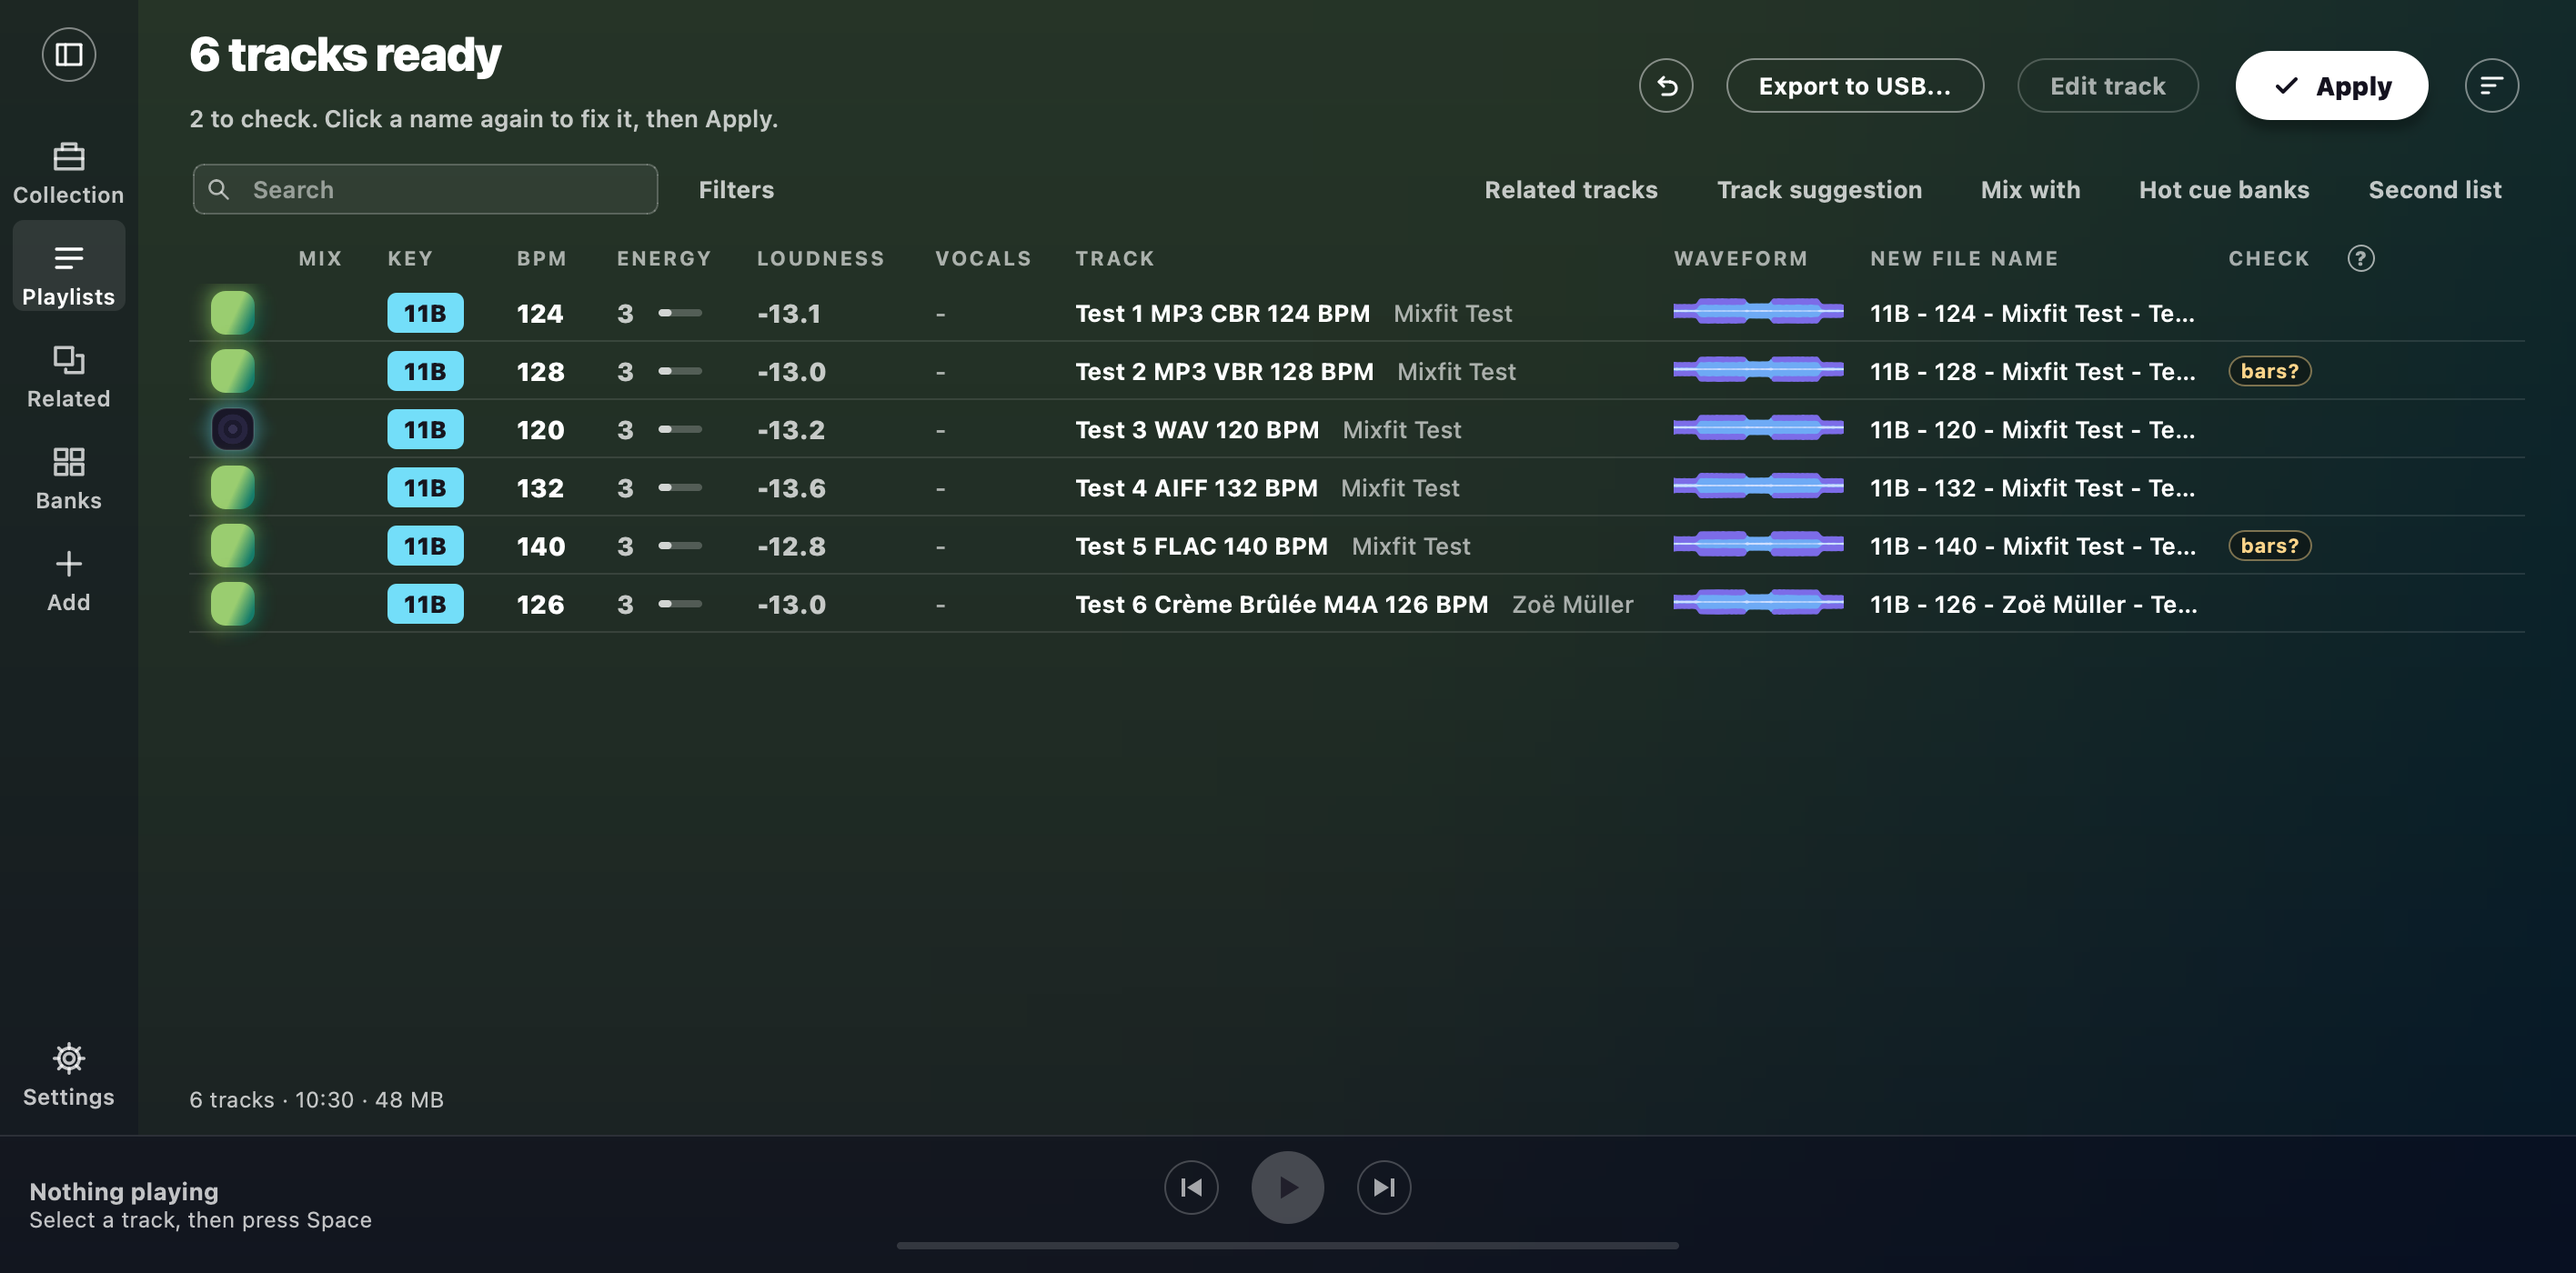
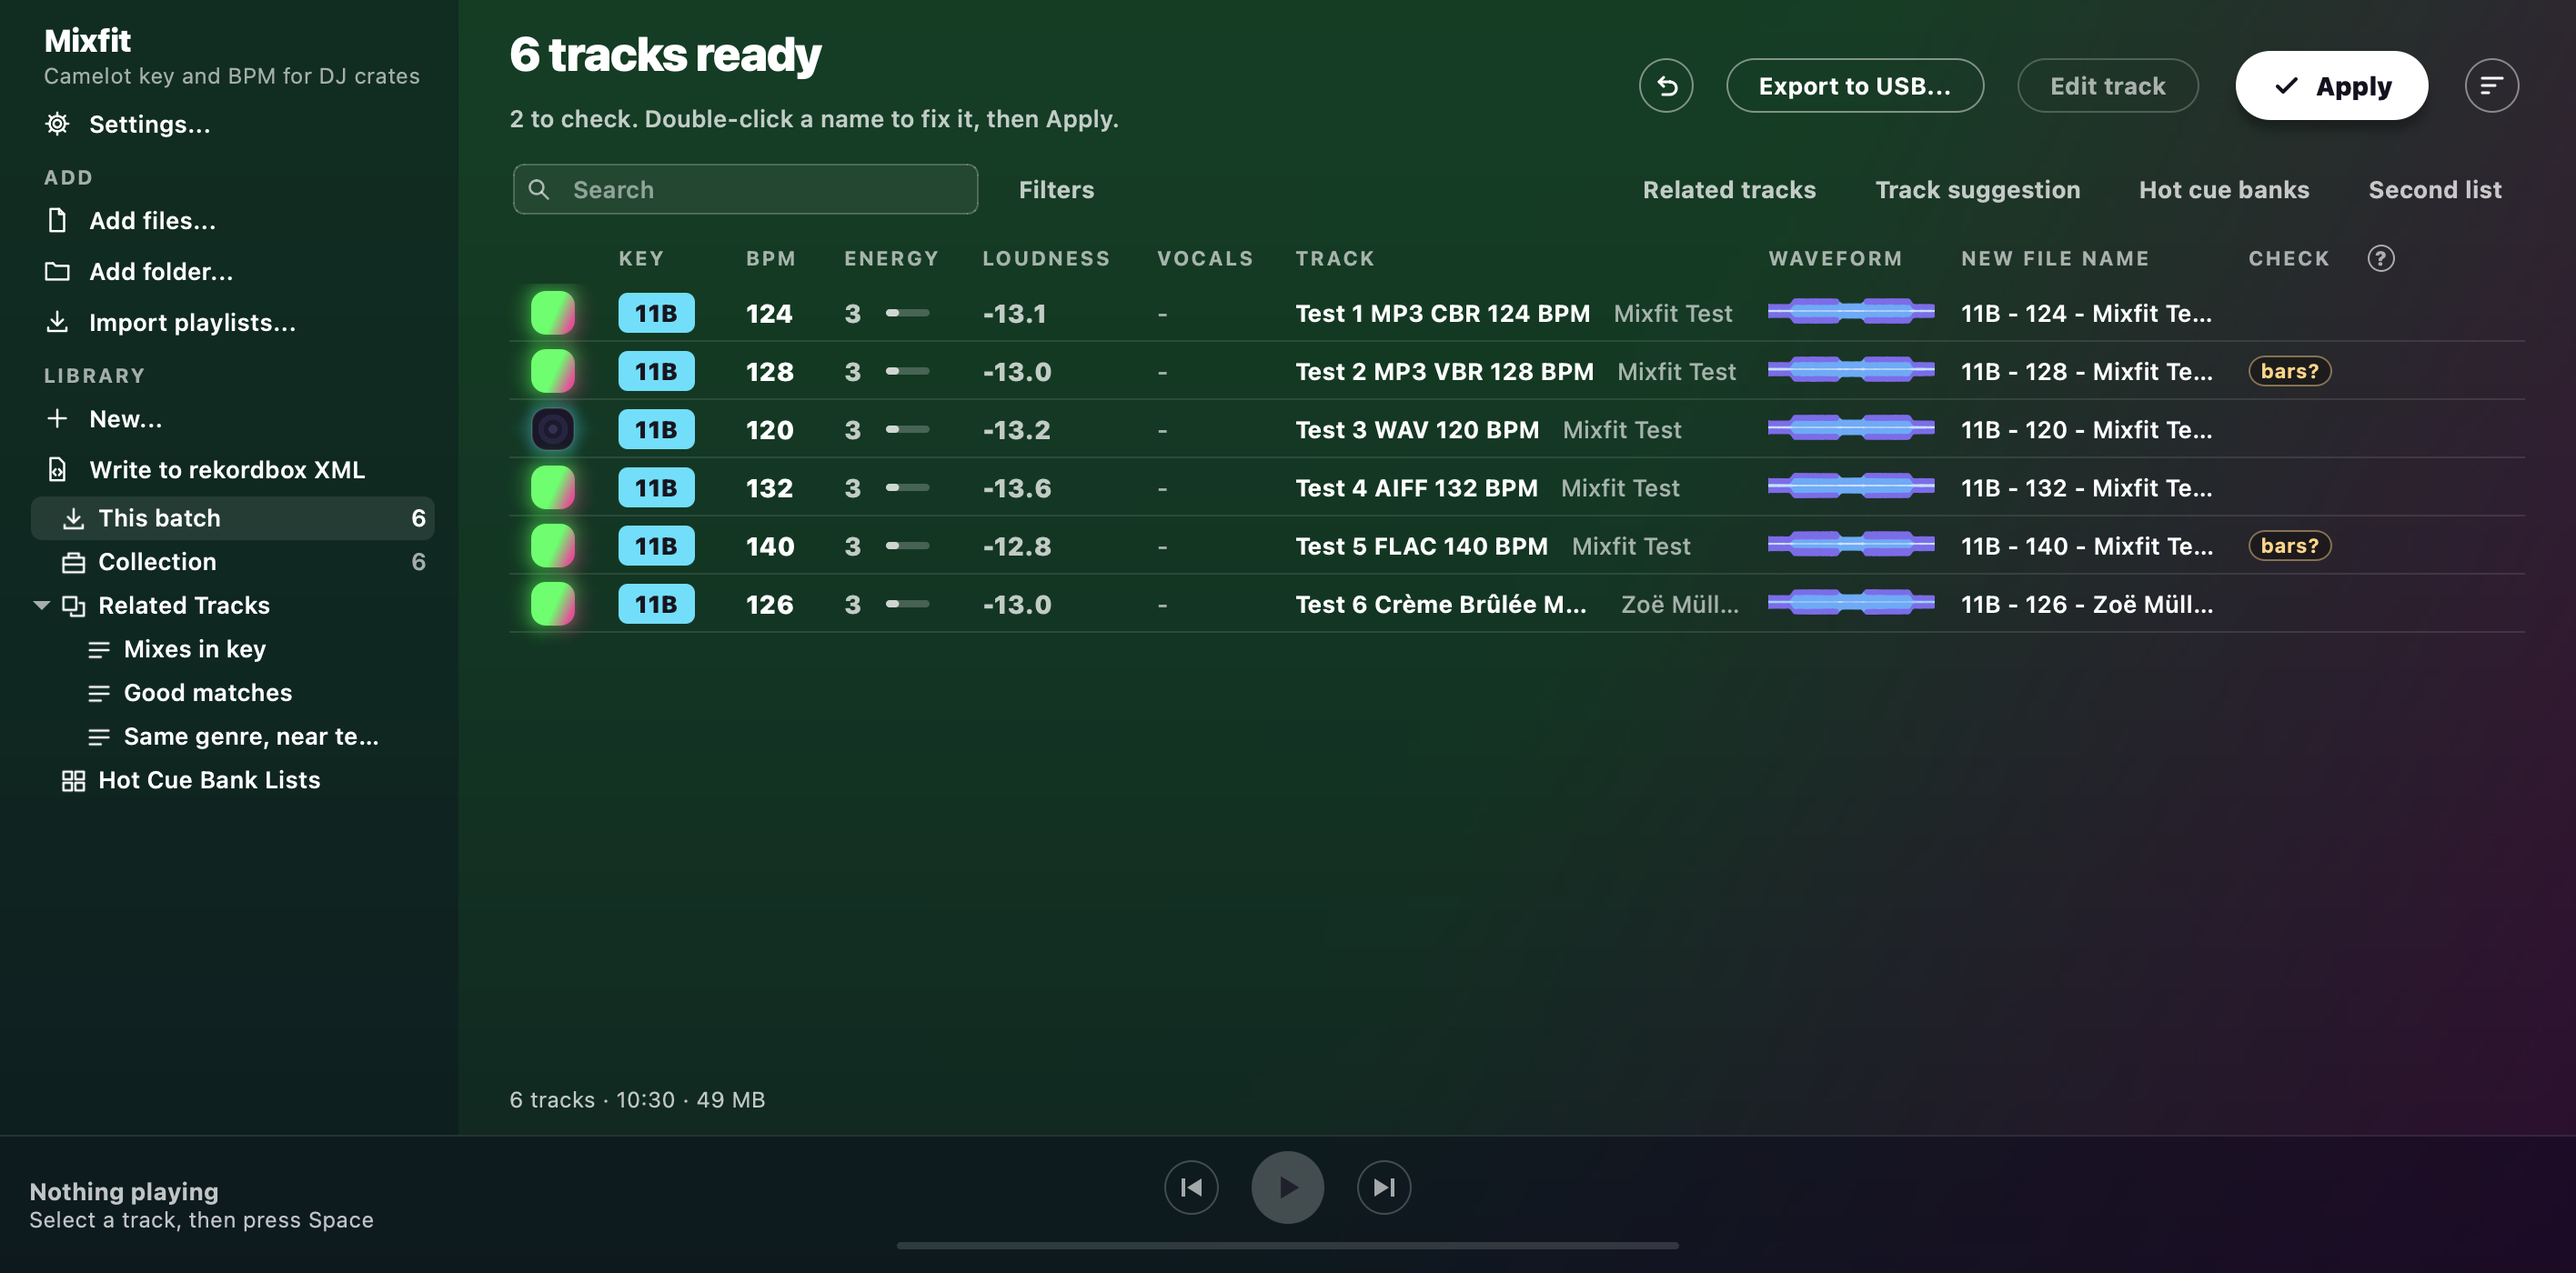
Front page, manual and USB test kit for v1.9.0 (#14)

diff --git a/manual/window.md b/manual/window.md
@@ -13,7 +13,7 @@ The sidebar holds your favourites and the [library](library.md), and it comes in
 
 The full sidebar lists your favourites, then **Library** (This batch, Incoming and the Collection), then **Playlists**, with Related Tracks and Hot Cue Bank Lists under them.
 The round **+** at its top holds everything that isn't a list: Add files, Add folder, Import playlists, the New playlist, matchlist, Automix and folder, and Write to rekordbox XML.
-**Settings** sits at the foot of the sidebar, and you can also open it from the Edit menu (the app menu on a Mac).
+**Settings** sits at the foot of the sidebar, with the button that shows and hides the [hint bar](#the-hint-bar) beside it, and you can also open it from the Edit menu (the app menu on a Mac).
 
 The rail is the sidebar folded down to one column of places, so the table gets the room.
 
@@ -23,7 +23,7 @@ The rail is the sidebar folded down to one column of places, so the table gets t
 - **Playlists** opens a menu of the batch, Incoming and your playlists, with a folder as a submenu.
 - **Related** and **Banks** open or close those pages of the panel.
 - **Add** opens the same menu as the full sidebar's **+**.
-- **Settings** sits at the foot.
+- **Hints** and **Settings** sit at the foot, Hints over Settings.
 
 The places you're in are filled: Collection or Playlists for the table, and Related or Banks while the panel shows them.
 Mixfit starts with the rail.
@@ -53,7 +53,9 @@ Each key shows as a chip in the color Mixed In Key uses for that key.
 
 While a drop is analysing, the card shows the track and a bar.
 Until the first track is in, the bar sweeps and the card counts the seconds so far, so a long first track doesn't look stuck.
-After that it shows the count and the time left.
+After that it shows the count, and once a few tracks are in, roughly how long is left at the pace this drop is going.
+When a drop will take more than a couple of minutes, the card also says that the finished tracks are ready to play, mix and tag while the rest goes on.
+If you quit, every finished track stays in your library, and dropping the same folder again analyses only the rest.
 The heading and the sidebar counts roll to their new number when you add tracks or change a filter, and they stay still when you ask for less motion.
 
 There's no system title bar.
@@ -70,6 +72,22 @@ The side panel fades in, and the track editor is there the moment you open it.
 Every click does its work at once, and the motion only shows it.
 Every page and panel you open has a way back in plain sight: the back arrow in the editor, the close button on the panel, and Esc.
 If your system asks for less motion (Reduce Motion on a Mac, Animation effects off on Windows), none of this moves and every change just appears, and the spinner on a track being analysed stays still and fades gently in and out instead of turning.
+
+## The hint bar
+
+The hint bar is a line along the very bottom of the window, under the player bar.
+It says in one sentence what the control under your pointer is for, or what has keyboard focus, and it changes the moment the pointer moves.
+Over a table cell or heading with help, such as Energy, Loudness or the Key heading, it says what that is.
+Over a check in the Check column, it says what that check means for that track.
+With nothing to say it stays empty and keeps its height, so nothing moves.
+
+Mixfit starts with it on.
+To hide it, choose View > Hint bar, or press the hint button beside Settings at the foot of the sidebar (over Settings on the rail).
+The same two bring it back, and the button shows whether it is on.
+Mixfit remembers which you left it.
+With the bar hidden, hints show nowhere, and they don't turn up as tooltips instead.
+A tooltip only names a button that has just an icon, and gives its key.
+Settings has a hint bar of its own along its foot, which shows and hides with the window's.
 
 ## The table
 
@@ -157,6 +175,7 @@ Because plain E opens the editor, use Shift+E to jump to a name that starts with
 ### What a row's marks mean
 
 A clock on the cover means the track is waiting for analysis, and a spinner means it's analysing.
+Waiting tracks don't wait their turn when you want them: a track you click is analysed next, then the rows on screen, then the rest in the order you dropped them.
 Before the checks, a row can show three marks:
 
 - A padlock means the track is locked.
@@ -165,8 +184,8 @@ Before the checks, a row can show three marks:
 
 Cues that the analysis only suggests show on the waveform instead.
 The marks always keep that order, so sorting by Check groups tracks by their marks.
-To read a row's marks, hover over them or arrow to the cell.
-The `?` beside the Check heading lists every mark.
+To read a row's marks, point at them or arrow to the cell, and the [hint bar](#the-hint-bar) says what they mean.
+Click the `?` beside the Check heading to list every mark.
 A missing file shows a `missing` check.
 
 ### The footer

diff --git a/manual/analysis.md b/manual/analysis.md
@@ -44,7 +44,7 @@ When you press Apply, Mixfit writes all this into your files.
   That track gets analysed once more the first time you add it after updating.
   Older rows in a `--csv` file get analysed once more too.
 - Older versions of the window didn't keep where the tempo drifts.
-  A track remembered from back then shows a general `bpm?` tooltip until it's analysed again.
+  A track remembered from back then shows a general `bpm?` note until it's analysed again.
 
 ## Checks
 
@@ -64,31 +64,31 @@ The Check column flags tracks worth a listen:
 
 A track whose analysis was [sharpened by its stems](#sharpened-by-stems) also shows a quiet `stems`.
 
-Hover a check to see the details for that track.
-The tooltip shows where the tempo drifts (`Tempo drifts 122-126 BPM at 1:12-1:40 and 4:05-4:30`), the second key reading, the tempo before folding, or the text that was removed.
-In the Check column, the arrow keys show the same tooltip.
-Screen readers read the tooltip from the cell.
-The `?` beside the Check heading lists every check.
+Point at a check and the [hint bar](window.md#the-hint-bar) gives the details for that track.
+It says where the tempo drifts (`Tempo drifts 122-126 BPM at 1:12-1:40 and 4:05-4:30`), the second key reading, the tempo before folding, or the text that was removed.
+Arrow to a Check cell and the bar says its first check and names the rest.
+Screen readers read every check of the cell.
+Click the `?` beside the Check heading to list every check.
 
 - **`bpm?`** means the tempo confidence is low, or the grid strays from the BPM by over 1.2% for 8 seconds or more.
   You won't see `bpm?` when the kicks and bass hold an even grid through the whole track.
   That's because a beat tracker can wander through a breakdown even when the tempo never moved.
 - **`bars?`** means the kick hits about as hard on the off-beat as on the beat, with no snare or clap on 2 and 4.
   It can also mean that nothing in the sound says which beat starts a bar.
-  The tooltip says which of the two it is.
+  The hint bar says which of the two it is.
   Before it shows, a second opinion gets a say from [Beat This!](https://github.com/CPJKU/beat_this), a learned beat and downbeat tracker, which listens to the 15 seconds where the kick and bass are loudest.
   Where it agrees with Mixfit's own reading on the beat and on bar 1, and the kick and bass hold the grid through the track, the check clears.
-  Where the two disagree, the check stays and the tooltip says what each of them hears.
+  Where the two disagree, the check stays and the hint bar says what the second opinion hears.
   The second opinion never moves a grid on its own.
   It was checked on generated tracks whose bars are known, and against bar lines marked on the benchmark corpus from spectrograms, not yet by ear.
   Automix echoes out of and into a `bars?` track rather than risk a train-wreck.
   Set the track's grid in the [track editor](editor.md#track-editor) and the check clears.
 - **`grid?`** means the grid your rekordbox collection, or an import, gave the track sits apart from the one Mixfit hears: half a beat off, bar 1 on another beat, or more than 20 ms away.
   Cues and the rekordbox XML use the imported grid.
-  The tooltip says how far apart the two are.
+  The hint bar says how far apart the two are.
   Open the track in the [track editor](editor.md#track-editor) to listen and set the one you trust.
 
-With `--csv`, the `bpm_unsteady` column holds the `bpm?` tooltip text.
+With `--csv`, the `bpm_unsteady` column says where the tempo drifts.
 The `tempos` column holds the grid written to the rekordbox XML.
 
 ## Energy level
@@ -202,13 +202,13 @@ Turn on **Sharpen analysis with stems** in [Settings](settings.md#stems), and Mi
 
 - **Bar 1** from the drums alone. The beat grid stays where the full mix puts it.
 - **Key** from the bass and other sounds, with no drums or vocal in the way.
-  If that key differs from the full mix's, the track gets `key?`, and the tooltip shows both.
+  If that key differs from the full mix's, the track gets `key?`, and the hint bar shows both.
   A key the full mix already had doubts about keeps its `key?`.
 - **Vocal parts** from how loud the vocal is on its own, where the voice model also hears a voice in it.
 
 Sometimes a stem doesn't separate cleanly.
 Then Mixfit keeps the full mix's reading for that part.
-The track shows a quiet `stems` in the Check column either way, and its tooltip says what came from the stems and what didn't, and why.
+The track shows a quiet `stems` in the Check column either way, and the hint bar says what came from the stems and what didn't, and why.
 A track you [locked](editor.md#track-editor) in the editor keeps its grid, cues and phrases.
 
 **How far you can trust it.**

diff --git a/manual/tags.md b/manual/tags.md
@@ -50,11 +50,33 @@ A musical key such as `Cm` only counts when it's next to a tempo or energy level
 The row says `cleaned`, and the table shows the result before you press Apply.
 Undo brings the old text back.
 
+## What Apply asks first
+
+Before Apply writes anything, it shows what it is about to do.
+
+![Apply's question: a row for each change, the warnings to read first, and a button that says what it does](../images/apply-question.png)
+
+Each row is one thing, with how many files it covers: **Write tags**, **Rename files** and **Make rekordbox cues**.
+**Rename files** counts only the files whose name changes, so a track that already has its name, or that your rekordbox collection keeps, isn't in the number.
+What you should read before going on sits under *Before you apply*:
+
+- Renamed files showing as missing in rekordbox, Serato or Traktor.
+- Tracks in your rekordbox collection that keep their names.
+- A live set that would stop.
+- Covers still being looked up.
+- No rekordbox collection chosen.
+
+The steps for getting keys into rekordbox are folded under **Notes for rekordbox**, and [Keys in rekordbox](#keys-in-rekordbox) has them too.
+The button says what it does, like **Apply to 7 files**.
+Press Return to apply, or Cancel or Esc to go back.
+If a live set would stop, Return cancels instead, so a stray key never stops the music.
+Undo puts the old names and tags back ([Undo](#undo)).
+
 ## When Apply cannot write a file
 
 When Apply can't write a file, it carries on with the rest.
 The row shows the reason in red in the Check column, and the New file name column shows the fix.
-To read the full message, hover over the badge or select the row.
+To read the full message, point at the badge and read the [hint bar](window.md#the-hint-bar), or select the row.
 
 | Reason | Cause |
 | --- | --- |

diff --git a/manual/library.md b/manual/library.md
@@ -41,6 +41,7 @@ It lists the jobs running behind the window: analysis, Apply, USB exports, dupli
 Each job has a bar, a count ("6 of 17 tracks") and a **Cancel** button.
 
 - A job that will likely run past 10 seconds tells you roughly how long is left.
+  An analysis waits until a few tracks are in, so the time comes from how fast your own drop is going.
 - The button's rim fills as the jobs go.
   A dot on it means a finished job has a failure or results for you.
 - Finished jobs stay in the list until you press **Clear finished**.
